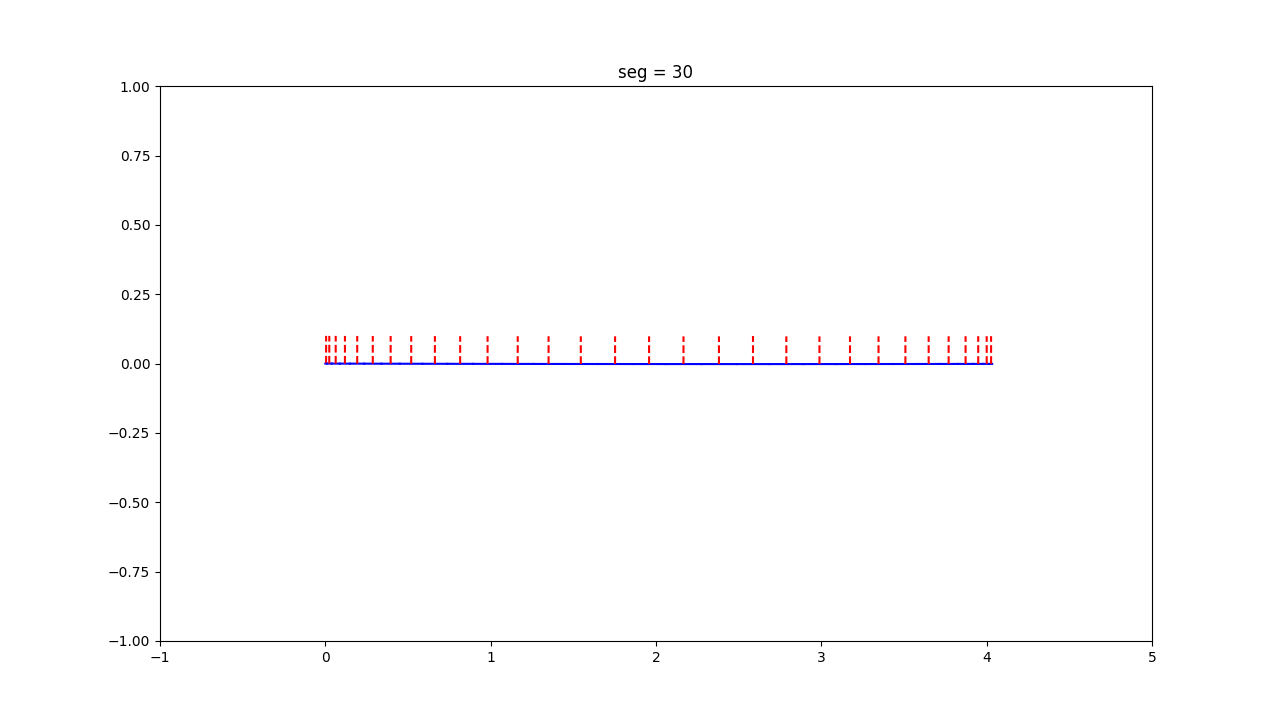
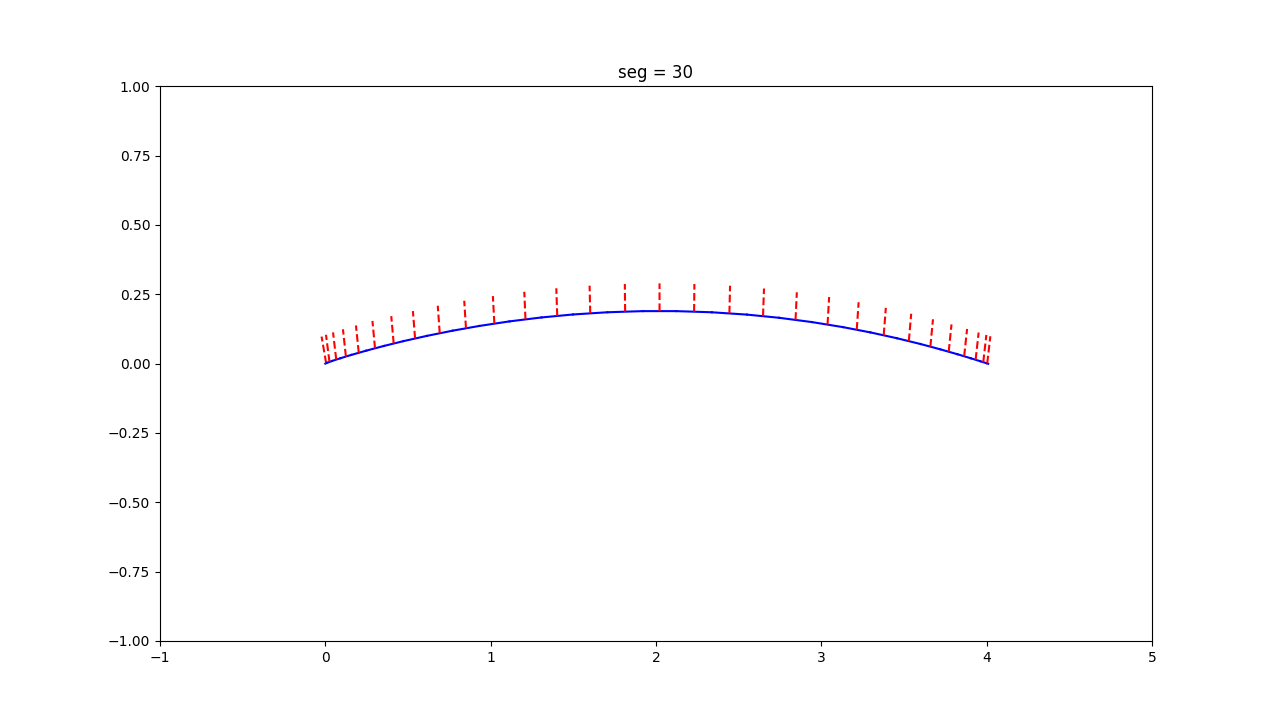
Some Updates

Changed region(s): [[0.25, 0.4278, 0.7812, 0.5194]]

diff --git a/MdvProfiles/src/Printing.cpp b/MdvProfiles/src/Printing.cpp
@@ -15,8 +15,8 @@ void printProfile(Profile& profile) {
     plt::figure_size(1280, 720);
     
     printCurve(profile.getContour());
-    // printCurve(profile.getChord());
-    // printCurve(profile.getMiddleLine());
+    printCurve(profile.getMiddleLine());
+    printCurve(profile.getChord());
 
     plt::ylim(-1, 1);
 

diff --git a/MainExec/main.cpp b/MainExec/main.cpp
@@ -16,7 +16,7 @@ ProfileFileManagerOption greetings() {
     char option;
     do {
         std::cin >> option;
-    } while (std::cin.fail());
+    } while (std::cin.fail() || !((option = '0') || (option = '1')));
 
     return (option == '0')
         ? ProfileFileManagerOption::ReadProfile
